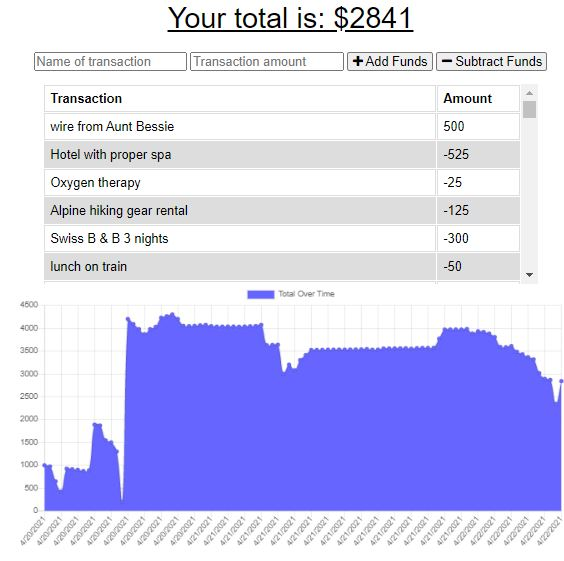
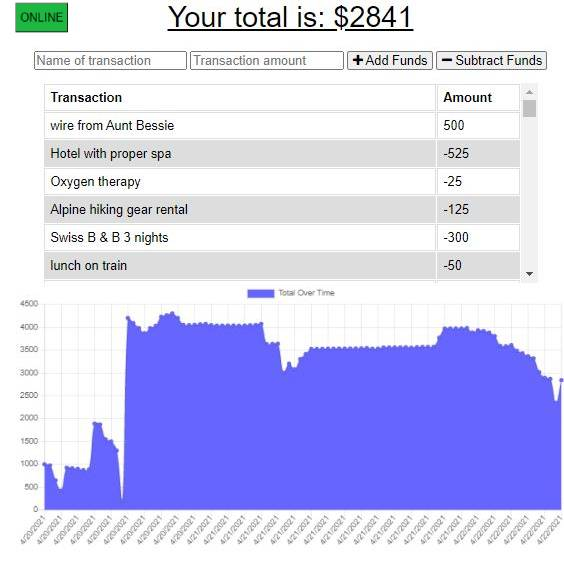
merge failed from offline2

diff --git a/public/index.html b/public/index.html
@@ -1,5 +1,6 @@
 <!DOCTYPE html>
 <html lang="en">
+
 <head>
   <meta charset="UTF-8">
   <meta name="viewport" content="width=device-width, initial-scale=1.0">
@@ -17,47 +18,52 @@
   <script src="js/idb.js" defer></script>
   <title>Any Budget</title>
 </head>
+
 <body>
   <div class="wrapper">
-    <div class="total">
+    <div class="status-bar">
+      <button id="network-status"></button>
+      <div class="total">
       <div class="total">Your total is: $<span id="total">0</span></div>
     </div>
+  </div>
 
-    <div class="form">
-      <input type="text" id="t-name" placeholder="Name of transaction" />
-      <input type="number" min="0" id="t-amount" placeholder="Transaction amount" />
-      <button id="add-btn"><i class="fa fa-plus buttons"></i> Add Funds</button>
-      <button id="sub-btn"><i class="fa fa-minus"></i> Subtract Funds</button>
-      <p class="error"></p>
-    </div>
+  <div class="form">
+    <input type="text" id="t-name" placeholder="Name of transaction" />
+    <input type="number" min="0" id="t-amount" placeholder="Transaction amount" />
+    <button id="add-btn"><i class="fa fa-plus buttons"></i> Add Funds</button>
+    <button id="sub-btn"><i class="fa fa-minus"></i> Subtract Funds</button>
+    <p class="error"></p>
+  </div>
 
-    <div class="transactions">
-      <table>
-        <thead>
-          <th>Transaction</th>
-          <th>Amount</th>
-        </thead>
-        <tbody id="tbody">
-          
-        </tbody>
-      </table>
-    </div>
-    
-    <canvas id="myChart"></canvas>
+  <div class="transactions">
+    <table>
+      <thead>
+        <th>Transaction</th>
+        <th>Amount</th>
+      </thead>
+      <tbody id="tbody">
+
+      </tbody>
+    </table>
+  </div>
+
+  <canvas id="myChart"></canvas>
   </div>
 </body>
 <!-- Register the service worker if this browser supports their use-->
-  
-  <script type="text/javascript">
-    (function() {
-      if ("serviceWorker" in navigator) {
-        navigator.serviceWorker
-          .register("./service-worker.js")
-          .then(() => console.log("Service Worker registered successfully."))
-          .catch(error =>
-            console.log("Service Worker registration failed:", error)
-          );
-      }
-    })();
-    </script>
+
+<script type="text/javascript">
+  (function () {
+    if ("serviceWorker" in navigator) {
+      navigator.serviceWorker
+        .register("./service-worker.js")
+        .then(() => console.log("Service Worker registered successfully."))
+        .catch(error =>
+          console.log("Service Worker registration failed:", error)
+        );
+    }
+  })();
+</script>
+
 </html>

diff --git a/public/js/idb.js b/public/js/idb.js
@@ -22,7 +22,7 @@ const request = indexedDB.open('travel_budget', 1);
 // the onupgradeneeded listener  handles the event of a change to the database
 // structure ie when when we first connect to indexedDB or if the version changes.
 
-request.onupgradeneeded = function(event) {
+request.onupgradeneeded = function (event) {
   const db = event.target.result;
   // create a locally-scoped connection to the db &
   // create the object store(table) called`new_entry`,
@@ -38,14 +38,14 @@ request.onupgradeneeded = function(event) {
 // onsuccess emits every time we interact with the database, 
 //so every time it runs we check to see if the app is connected 
 //to the network. If so, upload the budget transaction.
-request.onsuccess = function(event) {
+request.onsuccess = function (event) {
   db = event.target.result;
   if (navigator.onLine) {
     uploadEntries();
   }
 };
 
-request.onerror = function(event) {
+request.onerror = function (event) {
   console.log(event.target.errorCode);
 };
 
@@ -65,6 +65,10 @@ function saveRecord(record) {
 }
 
 function uploadEntries() {
+  const NetworkStatusEl = document.getElementById("network-status");
+  NetworkStatusEl.textContent = "ONLINE";
+  NetworkStatusEl.className = "online";
+
   // open a transaction on the pending db
   const transaction = db.transaction(['new_entry'], 'readwrite');
   // access your pending object store
@@ -76,7 +80,7 @@ function uploadEntries() {
   getAll.onsuccess = function () {
     // if there was data in indexedDb's store, send it to the api server
     if (getAll.result.length > 0) {
-      fetch('/api/transaction', { 
+      fetch('/api/transaction', {
         method: 'POST',
         body: JSON.stringify(getAll.result),
         headers: {
@@ -93,7 +97,6 @@ function uploadEntries() {
           const budgetEntryObjectStore = transaction.objectStore('new_entry');
           // clear all items in your store
           budgetEntryObjectStore.clear();
-          alert('Back online: budget has been updated');
         })
         .catch(err => {
           // set reference to redirect back here
@@ -103,5 +106,15 @@ function uploadEntries() {
   };
 }
 
+// Set the status button to "offline" - uploadEntries
+// does the opposite when we go online.
+
+function showOfflineStatus() {
+  const NetworkStatusEl = document.getElementById("network-status");
+  NetworkStatusEl.textContent = "OFFLINE";
+  NetworkStatusEl.className = "offline";
+}
+
 // listen for online connection
 window.addEventListener('online', uploadEntries);
+window.addEventListener('offline', showOfflineStatus);

diff --git a/public/css/styles.css b/public/css/styles.css
@@ -8,6 +8,7 @@ button, input {
   font-family: Arial;
 }
 
+
 table {
   width: 100%;
 }
@@ -32,8 +33,28 @@ tr:nth-child(even) {
   text-align: center;
 }
 
+.status-bar{
+  display:flex;
+  flex-wrap:wrap;
+  align-content:flex-start;
+}
+#btn-network-status{
+  display:inline-block;
+  line-height:1em;
+  flex: 0 0 20%;
+}
+.online {
+  background: #1cb841;
+}
+
+.offline {
+  background: rgb(223, 117, 20);
+}
+
 .total {
-  font-size: 150%;
+  display:inline-block;
+  flex: 0 0 80%;
+  font-size: 1.5em;
   text-decoration: underline;
 }
 

diff --git a/public/service-worker.js b/public/service-worker.js
@@ -1,6 +1,6 @@
 const APP_PREFIX = 'Budget-';
 // changing cache version forces refresh
-const VERSION = 'version_03';  
+const VERSION = 'version_05';  
 const CACHE_NAME = APP_PREFIX + VERSION
 const FILES_TO_CACHE = [
   "/",
